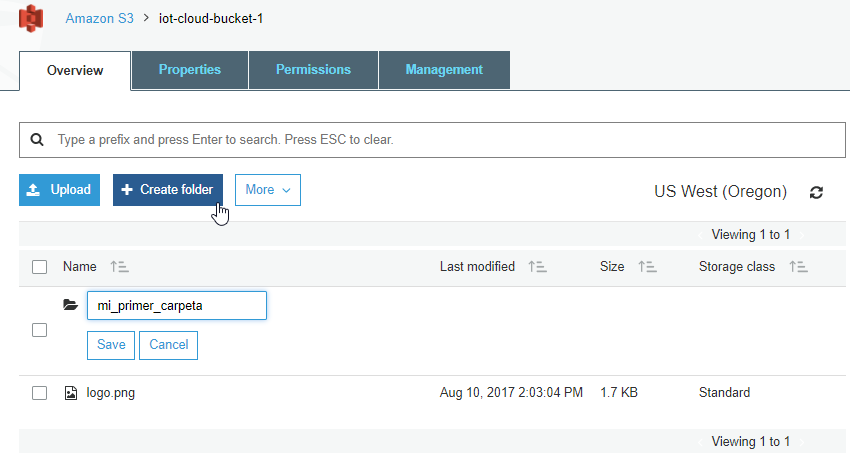
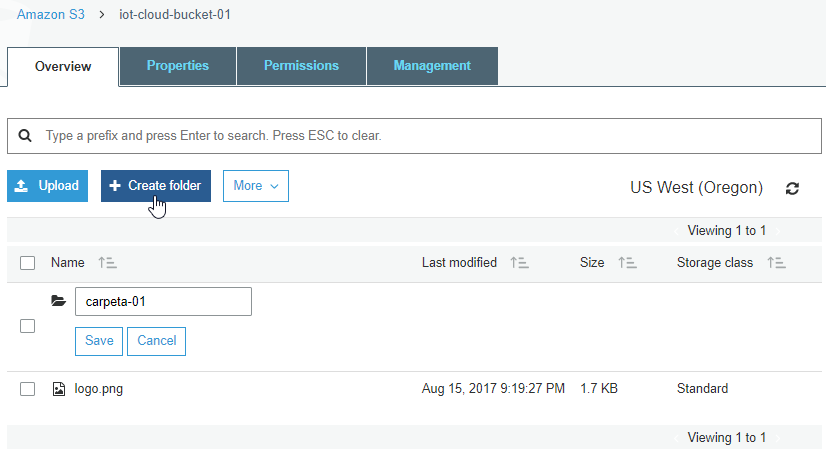
Modificación de comandos CLI en parte 1.

diff --git a/AWS Cloud/S3/20170807_AWS_S3.md b/AWS Cloud/S3/20170807_AWS_S3.md
@@ -180,11 +180,11 @@ Como vimos anteriormente, todo objeto que tenemos en un *bucket* es accesible me
    * luego: *Overview* >> *Make public*, y esperar que el proceso termine.
    ![alt text](./images/S3_public_03.png)
    * listo! ahora podemos volver a ingresar al link que habíamos copiado antes en el navegador y el objeto podrá ser accedido.
-   * es normal en la consola de AWS poder hacer lo mismo de varias formas, por ejemplo en este caso:
+.
+ * Es normal en la consola de AWS poder hacer lo mismo de varias formas, por ejemplo en este caso:
    ![alt text](./images/S3_public_04.png)
 
-
-* El acceso público también se puede dar al momento de subir el objeto al *bucket*, o mediante permisos específicos sobre el objeto.
+* El acceso público también se puede dar al momento de subir el objeto al *bucket*.
 ---
 ## Línea de Comandos de Amazon S3 ##
 
@@ -239,51 +239,47 @@ Donde:
 Primero podemos listar la lista de *buckets* que tenemos actualmente:
 ```bash
 $ aws s3 ls
-2017-08-08 16:33:33 iot-cloud-bucket-1
+2017-08-08 16:33:33 iot-cloud-bucket-01
 ```
 En este caso ya tenemos creado el *iot-cloud-bucket-1* que habíamos creado con la consola web.
 Vamos a crear el *iot-cloud-bucket-2* mediante el comando *mb (make_bucket)*
 
 ```bash
-$ aws s3 mb s3://iot-cloud-bucket-2
-make_bucket: iot-cloud-bucket-2
+$ aws s3 mb s3://iot-cloud-bucket-02
+make_bucket: iot-cloud-bucket-02
 
 $ aws s3 ls
-2017-08-08 16:33:33 iot-cloud-bucket-1
-2017-08-09 14:39:00 iot-cloud-bucket-2
+2017-08-08 16:33:33 iot-cloud-bucket-01
+2017-08-08 16:34:27 iot-cloud-bucket-02
 ```
 
-Y podemos eliminar un *bucket* mediante *rb (remove_bucket)*
+Y podemos eliminar un *bucket* mediante *rb (remove_bucket)*:
 ```bash
-$ aws s3 rb s3://iot-cloud-bucket-2
-remove_bucket: iot-cloud-bucket-2
+$ aws s3 rb s3://iot-cloud-bucket-02
+remove_bucket: iot-cloud-bucket-02
 
 $ aws s3 ls
-2017-08-08 16:33:33 iot-cloud-bucket-1
+2017-08-08 16:33:33 iot-cloud-bucket-01
 ```
 
 **Trabajando con *objetos***
-Para cargar el archivo *logo.png* del directorio local de nuestra máquina a un nuevo *bucket*, utilizamos el comando *cp*.
+Para cargar el archivo *logo.png* del directorio local de nuestra máquina a un nuevo *bucket*, utilizamos el comando *cp*:
 
 ```bash
-$ aws s3 mb s3://iot-cloud-bucket-nuevo
-make_bucket: iot-cloud-bucket-nuevo
+$ aws s3 mb s3://iot-cloud-bucket-02
+make_bucket: iot-cloud-bucket-02
 
-$ aws s3 ls
-2017-08-08 16:33:33 iot-cloud-bucket-1
-2017-08-09 15:01:18 iot-cloud-bucket-nuevo
+$ aws s3 cp logo.png s3://iot-cloud-bucket-02
+upload: .\logo.png to s3://iot-cloud-bucket-02/logo.png
 
-$ aws s3 cp logo.png s3://iot-cloud-bucket-nuevo
-upload: .\logo.png to s3://iot-cloud-bucket-nuevo/logo.png
-
-$ aws s3 ls s3://iot-cloud-bucket-nuevo
+$ aws s3 ls s3://iot-cloud-bucket-02
 2017-08-09 15:02:04       1753 logo.png
 ```
 
 Para descargar el objeto *logo.png* desde S3 a nuestro disco local, utilizamos también el comando *cp* simplemente alternando origen/destino. En este caso lo bajamos a nuestra máquina local con otro nombre *logo-2.png* para no sobrescribir el existente (opcional):
 ```bash
-$ aws s3 cp s3://iot-cloud-bucket-nuevo/logo.png ./logo-2.png
-download: s3://iot-cloud-bucket-nuevo/logo.png to .\logo-2.png
+$ aws s3 cp s3://iot-cloud-bucket-02/logo.png ./logo-2.png
+download: s3://iot-cloud-bucket-02/logo.png to .\logo-2.png
 
 $ ls
 logo.png  logo-2.png
@@ -291,8 +287,8 @@ logo.png  logo-2.png
 
 Para eliminar un objeto del *bucket* utilizamos el comando *rm* :
 ```bash
-aws s3 rm s3://iot-cloud-bucket-nuevo/logo.png
-delete: s3://iot-cloud-bucket-nuevo/logo.png
+aws s3 rm s3://iot-cloud-bucket-02/logo.png
+delete: s3://iot-cloud-bucket-02/logo.png
 ```
 
 Refs:
@@ -317,35 +313,54 @@ Desde la consola web podemos crear un folder fácilmente, cuando estamos dentro 
 Y podemos subir objetos de la misma forma que lo hicimos antes.
 ![alt text](./images/S3_folders_02.png)
 
-También podemos subir objetos a carpetas utilizando la CLI:
-```bash
-$ mkdir logs;
-$ touch logs/file1 logs/file2 logs/file3
+También podemos subir objetos a carpetas utilizando la CLI, pero lo haremos de otra forma esta vez. Supongamos queremos subir una estructura de carpetas y archivos que ya tenemos en nuestro equipo:
 
-$ aws s3 cp . s3://iot-cloud-bucket-1/ --recursive
-upload: logs\file3 to s3://iot-cloud-bucket-1/logs/file3
-upload: logs\file2 to s3://iot-cloud-bucket-1/logs/file2
-upload: logs\file1 to s3://iot-cloud-bucket-1/logs/file1
+Vamos a crear la estructura local primero:
+```bash
+$ mkdir carpeta-01; cd carpeta-01
+$ mkdir docs
+$ touch docs/file1.txt docs/file2.txt docs/file3.txt
+
+```
+Ahora subamos esos archivos de una forma más fácil.
+Esto podemos hacerlo mediante el mismo comando *aws s3 cp* agregándole la opción *--recursive*
+```bash
+$ aws s3 cp . s3://iot-cloud-bucket-01/carpeta-01/ --recursive
+upload: docs\file1.txt to s3://iot-cloud-bucket-01/carpeta-01/docs/file1.txt
+upload: docs\file2.txt to s3://iot-cloud-bucket-01/carpeta-01/docs/file2.txt
+upload: docs\file3.txt to s3://iot-cloud-bucket-01/carpeta-01/docs/file3.txt
 ```
 
-O sincronizar una carpeta local con todo su contenido:
+O podemos sincronizar una carpeta local con todo su contenido, con el comando *aws s3 sync*:
 ```bash
-$ touch file4 file5; mkdir otra_carpeta; touch otra_carpeta/file6
+$ mkdir logs
+$ touch logs/log1.out logs/log2.out logs/log3.out
 
-$ aws s3 sync . s3://iot-cloud-bucket-1
-upload: .\file4 to s3://iot-cloud-bucket-1/file4
-upload: otra_carpeta\file6 to s3://iot-cloud-bucket-1/otra_carpeta/file6
-upload: .\file5 to s3://iot-cloud-bucket-1/file5
+$ aws s3 sync . s3://iot-cloud-bucket-01/carpeta-01/
+upload: logs\log3.out to s3://iot-cloud-bucket-01/carpeta-01/logs/log3.out
+upload: logs\log1.out to s3://iot-cloud-bucket-01/carpeta-01/logs/log1.out
+upload: logs\log2.out to s3://iot-cloud-bucket-01/carpeta-01/logs/log2.out
+
+$ aws s3 ls s3://iot-cloud-bucket-01 --recursive
+2017-08-15 21:20:24          0 carpeta-01/
+2017-08-15 21:25:05          0 carpeta-01/docs/file1.txt
+2017-08-15 21:25:05          0 carpeta-01/docs/file2.txt
+2017-08-15 21:25:06          0 carpeta-01/docs/file3.txt
+2017-08-15 21:28:31          0 carpeta-01/logs/log1.out
+2017-08-15 21:28:31          0 carpeta-01/logs/log2.out
+2017-08-15 21:28:30          0 carpeta-01/logs/log3.out
+2017-08-15 21:19:27       1753 logo.png
 ```
+
 El comando *sync* solo actualiza los archivos actuales y sube los nuevos, pero no borra objetos salvo que le agreguemos *--delete*:
 ```bash
-$ rm file5 logs/file1
+$ rm logs/log3.out
 
-$ aws s3 sync . s3://iot-cloud-bucket-1
+$ aws s3 sync . s3://iot-cloud-bucket-01/carpeta-01/
+((no hace nada))
 
-$ aws s3 sync . s3://iot-cloud-bucket-1 --delete
-delete: s3://iot-cloud-bucket-1/file5
-delete: s3://iot-cloud-bucket-1/logs/file1
+$ $ aws s3 sync . s3://iot-cloud-bucket-01/carpeta-01/ --delete
+delete: s3://iot-cloud-bucket-01/carpeta-01/logs/log3.out
 ```
 
 Refs:
